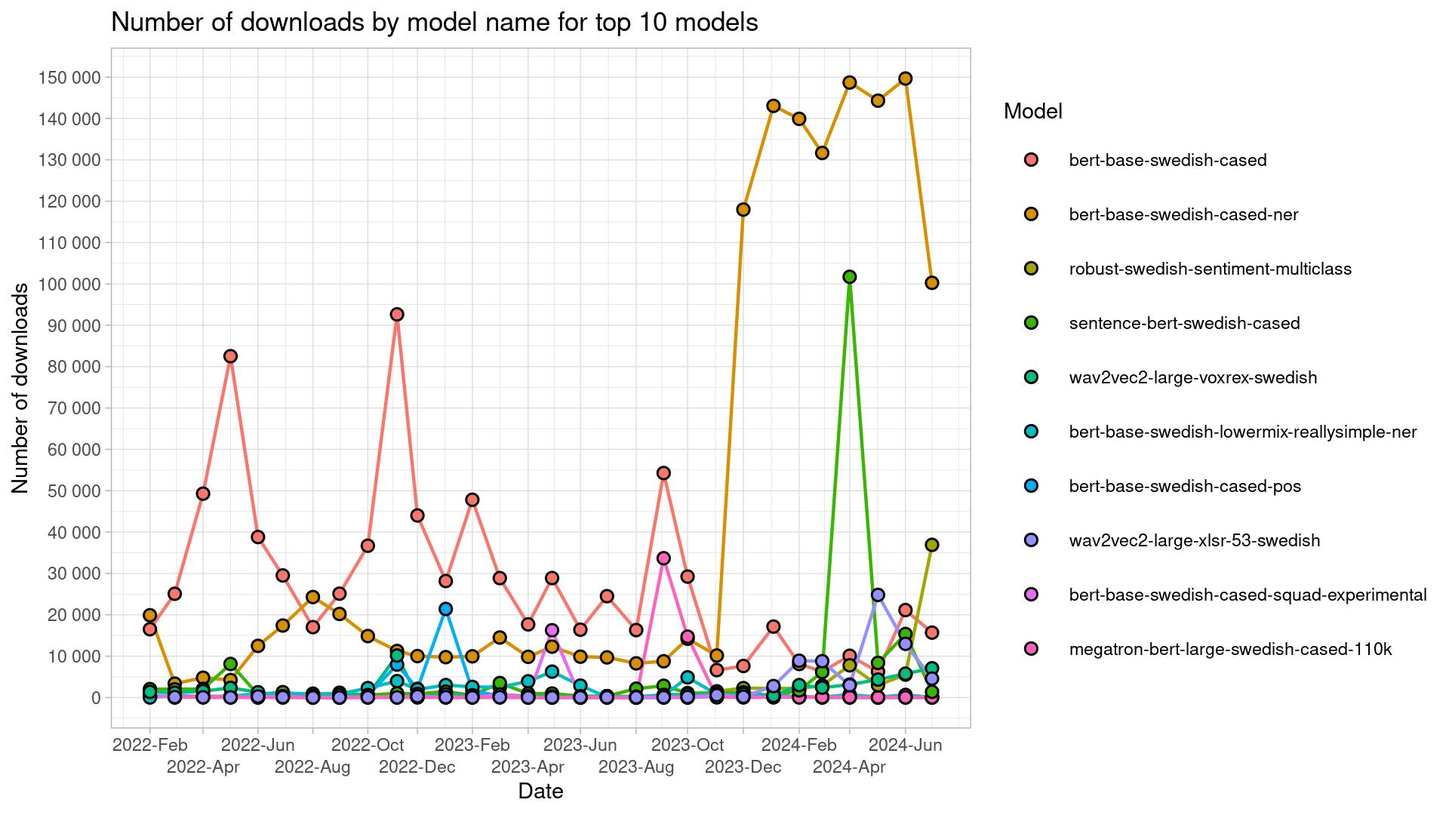
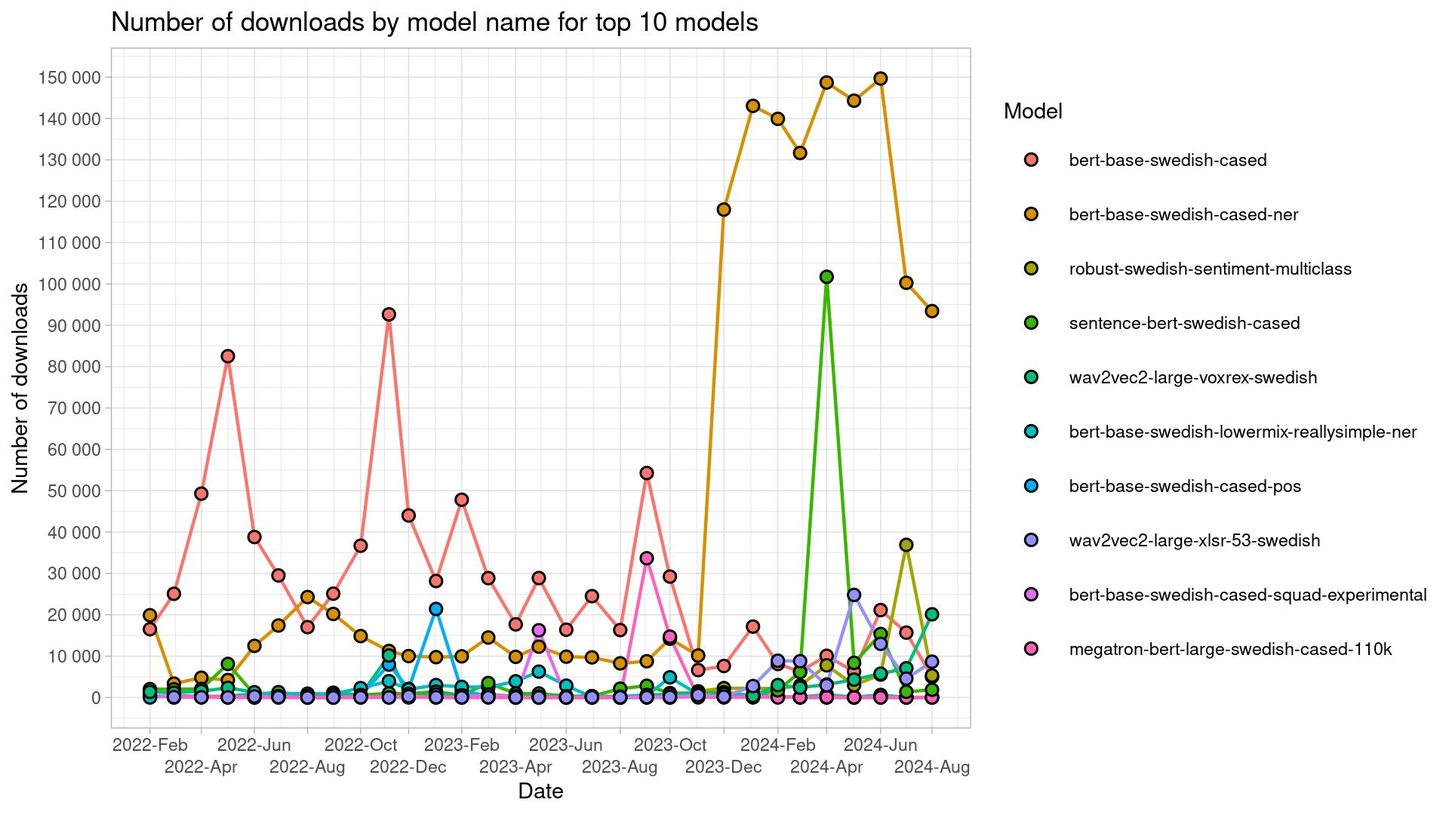
August 2024 update

Changed region(s): [[0.0938, 0.0917, 0.6562, 0.9472], [0.0938, 0.7028, 0.125, 0.7333]]

diff --git a/README.md b/README.md
@@ -12,61 +12,61 @@ Script is run monthly, and a monthly `csv`-file outputted to `/data` folder.
 
 ## Table of downloads
 
-|model_name                                           | 2022-02| 2022-03| 2022-04| 2022-05| 2022-06| 2022-07| 2022-08| 2022-09| 2022-10| 2022-11| 2022-12| 2023-01| 2023-02| 2023-03| 2023-04| 2023-05| 2023-06| 2023-07| 2023-08| 2023-09| 2023-10| 2023-11| 2023-12| 2024-01| 2024-02| 2024-03| 2024-04| 2024-05| 2024-06| 2024-07|
-|:----------------------------------------------------|-------:|-------:|-------:|-------:|-------:|-------:|-------:|-------:|-------:|-------:|-------:|-------:|-------:|-------:|-------:|-------:|-------:|-------:|-------:|-------:|-------:|-------:|-------:|-------:|-------:|-------:|-------:|-------:|-------:|-------:|
-|albert-base-swedish-cased-alpha                      |     126|     252|      61|      52|      52|      28|      31|      17|      30|      64|     229|      37|      32|      75|      13|      17|      24|      39|      14|      18|       4|      71|      75|      74|      20|      27|     100|     220|      31|      19|
-|asr-voxrex-bart-base                                 |      11|      10|      19|       5|       2|       1|       1|       3|       2|       3|       2|       4|       9|      15|       7|       2|       4|       7|       4|       3|       8|       2|       5|       1|       6|       8|       5|       8|       8|      50|
-|bart-base-swedish-cased                              |      74|      12|     116|     126|      32|      18|      41|      56|      81|       6|       9|      18|      41|      70|     110|      60|      50|      40|      23|       9|      63|      44|      42|      11|     129|      14|     119|      14|      56|      32|
-|bert-base-swedish-cased                              |   16509|   25080|   49286|   82528|   38802|   29511|   17012|   25106|   36702|   92636|   44016|   28164|   47819|   28864|   17684|   28878|   16390|   24502|   16303|   54271|   29238|    6625|    7620|   17149|    8106|    6290|   10094|    6253|   21139|   15689|
-|bert-base-swedish-cased-alpha                        |      22|      24|    1362|      34|       8|      73|       7|      14|      14|      14|      10|     160|     151|       6|       9|       5|       6|       9|       2|      12|       3|       4|       5|       3|       5|      11|      15|       2|       9|       8|
-|bert-base-swedish-cased-ner                          |   19891|    3353|    4783|    4221|   12487|   17406|   24290|   20200|   14852|   11251|   10014|    9759|    9957|   14508|    9834|   12293|    9868|    9701|    8258|    8767|   14214|   10149|  117977|  143050|  139912|  131659|  148695|  144309|  149658|  100264|
-|bert-base-swedish-cased-neriob                       |       8|      87|      34|      25|       4|      44|       2|       1|      62|      10|       5|      31|       5|       8|       6|       6|       9|      18|       2|       1|       0|      19|       8|       5|       5|      11|      15|       3|      22|       7|
-|bert-base-swedish-cased-new                          |      NA|       0|     377|    1069|     786|      10|     238|      69|     225|     168|     163|      46|      44|     352|     303|      33|      52|      69|      73|     211|      96|      84|      30|      34|       5|      53|      59|     279|      76|      27|
-|bert-base-swedish-cased-pos                          |     428|     179|     107|     104|     168|     310|       2|       2|     467|    7959|    2083|   21410|    1713|     300|      15|      28|      58|      64|       9|      75|      28|     312|     159|     166|     239|      33|      20|      12|      80|      32|
-|bert-base-swedish-cased-reallysimple-ner             |       6|      32|       9|       7|      11|      10|       3|       8|      10|      17|       4|      16|     159|     401|     211|     334|     327|     326|      74|     152|     341|     304|     274|       3|       7|      14|      14|       4|      12|       6|
-|bert-base-swedish-cased-squad-experimental           |     323|     136|      45|      23|      40|     182|      25|      27|     101|      10|      22|      62|      56|     643|     130|   16262|      29|      29|       4|      16|      10|     280|      64|      34|     275|      30|      44|       4|      13|      36|
-|bert-base-swedish-lowermix-reallysimple-ner          |       6|     453|     248|     312|     901|     991|     930|     871|    2274|    3958|    1963|    3010|    2567|    2485|    3919|    6258|    2875|     121|      53|     417|    4874|     769|     327|     713|      81|     111|     696|     104|     623|      31|
-|electra-base-swedish-cased-discriminator             |     317|     143|     149|    1404|       2|       3|       3|       3|       2|       5|       0|       7|       2|       0|       6|       7|       4|       8|       0|       1|       0|       4|       0|       1|       4|       5|      15|       2|       5|       4|
-|electra-base-swedish-cased-generator                 |       9|      15|      26|      31|       2|      19|       1|      18|       1|       9|       4|      10|       4|      14|      88|      78|     107|      72|       3|      15|      39|      12|       7|      11|       8|      52|      53|       6|      27|       2|
-|electra-small-swedish-cased-discriminator            |      12|       5|    1467|    3804|      10|       5|       2|       2|       2|      10|       8|      12|     153|       1|       9|       2|       6|       4|      18|       6|       0|       3|       0|       7|      11|      13|       9|       4|       9|       7|
-|electra-small-swedish-cased-generator                |      NA|       3|     138|      14|       4|      19|       2|       3|       4|       8|       6|      11|       4|       3|       6|      14|       4|       9|       0|       1|       0|     131|       5|       3|       5|       9|      13|       2|      10|       4|
-|emotional-classification                             |      NA|      NA|      NA|      NA|      NA|      NA|      NA|      NA|      NA|      NA|      NA|      NA|      NA|      NA|      NA|      NA|      NA|     155|       3|       1|       2|      27|       9|       0|       0|      13|      63|       1|       8|       2|
-|megatron-bert-base-swedish-cased-125k                |      NA|       0|     353|       0|       2|       8|       1|       3|     131|      55|     158|      27|      21|      19|       7|       6|      10|      10|       4|       2|       0|       4|      29|      22|       5|       3|       4|      67|       8|       2|
-|megatron-bert-base-swedish-cased-600k                |      NA|      10|     288|      87|      30|      16|      16|      17|     111|      12|      20|     194|      27|      49|      13|      15|     100|      22|       2|       2|      15|      12|      41|      21|       5|      67|       6|      71|      30|       6|
-|megatron-bert-large-swedish-cased-110k               |      NA|       0|     346|      77|       4|       4|       0|       1|       1|     171|     160|      15|       8|      23|       4|       2|       4|       3|       0|   33671|   14716|      38|      63|     106|      29|      70|      79|      43|      31|      24|
-|megatron-bert-large-swedish-cased-165-zero-shot      |      NA|      NA|      NA|      NA|      NA|      NA|      NA|      NA|      NA|      NA|       5|      55|      26|      63|      20|     621|      69|     135|      58|     170|      48|     243|     123|      40|     127|     147|      56|     123|     119|       7|
-|megatron-bert-large-swedish-cased-165k               |      NA|      NA|       9|      13|      40|      19|      53|       2|      18|     336|     327|      21|      34|      67|      43|      56|      36|      52|      13|      86|      37|      12|     343|     153|      24|      18|      24|      15|      15|       3|
-|megatron.bert-base.bpe-32k-no_pretok.25k-steps       |      NA|      NA|      NA|      NA|      NA|      NA|      NA|      NA|      NA|      NA|      NA|      NA|      NA|      NA|      NA|      NA|      NA|      NA|      NA|      NA|      NA|      NA|      NA|      NA|      NA|      NA|      NA|       3|       2|       4|
-|megatron.bert-base.bpe-64k-no_pretok.25k-steps       |      NA|      NA|      NA|      NA|      NA|      NA|      NA|      NA|      NA|      NA|      NA|      NA|      NA|      NA|      NA|      NA|      NA|      NA|      NA|      NA|      NA|      NA|      NA|      NA|      NA|      NA|      NA|       3|       3|       3|
-|megatron.bert-base.spe-bpe-32k-no_pretok.25k-steps   |      NA|      NA|      NA|      NA|      NA|      NA|      NA|      NA|      NA|      NA|      NA|      NA|      NA|      NA|      NA|      NA|      NA|      NA|      NA|      NA|      NA|      NA|      NA|      NA|      NA|      NA|      NA|       3|       3|       3|
-|megatron.bert-base.spe-bpe-32k-pretok.25k-steps      |      NA|      NA|      NA|      NA|      NA|      NA|      NA|      NA|      NA|      NA|      NA|      NA|      NA|      NA|      NA|      NA|      NA|      NA|      NA|      NA|      NA|      NA|      NA|      NA|      NA|      NA|      NA|       3|       3|       3|
-|megatron.bert-base.spe-bpe-64k-no_pretok.25k-steps   |      NA|      NA|      NA|      NA|      NA|      NA|      NA|      NA|      NA|      NA|      NA|      NA|      NA|      NA|      NA|      NA|      NA|      NA|      NA|      NA|      NA|      NA|      NA|      NA|      NA|      NA|      NA|       3|       3|       4|
-|megatron.bert-base.spe-bpe-64k-pretok.25k-steps      |      NA|      NA|      NA|      NA|      NA|      NA|      NA|      NA|      NA|      NA|      NA|      NA|      NA|      NA|      NA|      NA|      NA|      NA|      NA|      NA|      NA|      NA|      NA|      NA|      NA|      NA|      NA|       3|       3|       2|
-|megatron.bert-base.unigram-32k-no_pretok.25k-steps   |      NA|      NA|      NA|      NA|      NA|      NA|      NA|      NA|      NA|      NA|      NA|      NA|      NA|      NA|      NA|      NA|      NA|      NA|      NA|      NA|      NA|      NA|      NA|      NA|      NA|      NA|      NA|       3|       3|       3|
-|megatron.bert-base.unigram-32k-pretok.25k-steps      |      NA|      NA|      NA|      NA|      NA|      NA|      NA|      NA|      NA|      NA|      NA|      NA|      NA|      NA|      NA|      NA|      NA|      NA|      NA|      NA|      NA|      NA|      NA|      NA|      NA|      NA|      NA|       3|       3|       3|
-|megatron.bert-base.unigram-64k-no_pretok.25k-steps   |      NA|      NA|      NA|      NA|      NA|      NA|      NA|      NA|      NA|      NA|      NA|      NA|      NA|      NA|      NA|      NA|      NA|      NA|      NA|      NA|      NA|      NA|      NA|      NA|      NA|      NA|      NA|       3|       3|       3|
-|megatron.bert-base.unigram-64k-pretok.25k-steps      |      NA|      NA|      NA|      NA|      NA|      NA|      NA|      NA|      NA|      NA|      NA|      NA|      NA|      NA|      NA|      NA|      NA|      NA|      NA|      NA|      NA|      NA|      NA|      NA|      NA|      NA|      NA|       3|       4|       3|
-|megatron.bert-base.wordpiece-32k-no_pretok.25k-steps |      NA|      NA|      NA|      NA|      NA|      NA|      NA|      NA|      NA|      NA|      NA|      NA|      NA|      NA|      NA|      NA|      NA|      NA|      NA|      NA|      NA|      NA|      NA|      NA|      NA|      NA|      NA|       3|       3|       3|
-|megatron.bert-base.wordpiece-32k-pretok.25k-steps    |      NA|      NA|      NA|      NA|      NA|      NA|      NA|      NA|      NA|      NA|      NA|      NA|      NA|      NA|      NA|      NA|      NA|      NA|      NA|      NA|      NA|      NA|      NA|      NA|      NA|      NA|      NA|       9|       3|       3|
-|megatron.bert-base.wordpiece-64k-no_pretok.25k-steps |      NA|      NA|      NA|      NA|      NA|      NA|      NA|      NA|      NA|      NA|      NA|      NA|      NA|      NA|      NA|      NA|      NA|      NA|      NA|      NA|      NA|      NA|      NA|      NA|      NA|      NA|      NA|       3|       3|       3|
-|megatron.bert-base.wordpiece-64k-pretok.25k-steps    |      NA|      NA|      NA|      NA|      NA|      NA|      NA|      NA|      NA|      NA|      NA|      NA|      NA|      NA|      NA|      NA|      NA|      NA|      NA|      NA|      NA|      NA|      NA|      NA|      NA|      NA|      NA|       3|       3|       2|
-|megatron.bert-large.bpe-64k-no_pretok.25k-steps      |      NA|      NA|      NA|      NA|      NA|      NA|      NA|      NA|      NA|      NA|      NA|      NA|      NA|      NA|      NA|      NA|      NA|      NA|      NA|      NA|      NA|      NA|      NA|      NA|      NA|      NA|      NA|       3|       3|       3|
-|megatron.bert-large.spe-bpe-32k-pretok.25k-steps     |      NA|      NA|      NA|      NA|      NA|      NA|      NA|      NA|      NA|      NA|      NA|      NA|      NA|      NA|      NA|      NA|      NA|      NA|      NA|      NA|      NA|      NA|      NA|      NA|      NA|      NA|      NA|       3|       3|       3|
-|megatron.bert-large.unigram-32k-pretok.25k-steps     |      NA|      NA|      NA|      NA|      NA|      NA|      NA|      NA|      NA|      NA|      NA|      NA|      NA|      NA|      NA|      NA|      NA|      NA|      NA|      NA|      NA|      NA|      NA|      NA|      NA|      NA|      NA|       3|       3|       2|
-|megatron.bert-large.unigram-64k-pretok.25k-steps     |      NA|      NA|      NA|      NA|      NA|      NA|      NA|      NA|      NA|      NA|      NA|      NA|      NA|      NA|      NA|      NA|      NA|      NA|      NA|      NA|      NA|      NA|      NA|      NA|      NA|      NA|      NA|       3|       3|       3|
-|megatron.bert-large.unigram-64k-pretok.500k-steps    |      NA|      NA|      NA|      NA|      NA|      NA|      NA|      NA|      NA|      NA|      NA|      NA|      NA|      NA|      NA|      NA|      NA|      NA|      NA|      NA|      NA|      NA|      NA|      NA|      NA|     310|      11|       1|       1|       2|
-|megatron.bert-large.wordpiece-32k-pretok.25k-steps   |      NA|      NA|      NA|      NA|      NA|      NA|      NA|      NA|      NA|      NA|      NA|      NA|      NA|      NA|      NA|      NA|      NA|      NA|      NA|      NA|      NA|      NA|      NA|      NA|      NA|      NA|      NA|       3|       3|       3|
-|megatron.bert-large.wordpiece-64k-pretok.25k-steps   |      NA|      NA|      NA|      NA|      NA|      NA|      NA|      NA|      NA|      NA|      NA|      NA|      NA|      NA|      NA|      NA|      NA|      NA|      NA|      NA|      NA|      NA|      NA|      NA|      NA|      NA|      NA|       9|       4|       3|
-|piper-tts-nst-swedish                                |      NA|      NA|      NA|      NA|      NA|      NA|      NA|      NA|      NA|      NA|      NA|      NA|      NA|      NA|      NA|       1|       8|       3|       0|       0|       0|       1|       0|       0|       0|       3|       7|      11|       3|       1|
-|roberta-base-swedish-cased                           |       7|       7|     471|       8|      78|       5|      67|       2|       0|       5|       5|      37|     150|       3|       6|     204|      10|       9|       1|       2|       2|       2|       3|       3|      30|      15|       9|       3|      10|       3|
-|robust-swedish-sentiment-multiclass                  |      NA|      NA|      NA|      NA|      NA|      NA|      NA|      NA|      NA|      NA|      NA|      NA|      NA|      NA|      NA|      NA|      12|     296|       8|      58|     119|    1505|    2263|    2206|    2178|    2895|    7783|    2968|    5544|   36910|
-|sentence-bert-swedish-cased                          |    2033|    1988|    2079|    8110|     721|    1299|     304|    1157|     597|    1008|     887|    1441|     546|    3499|     955|     970|     327|     328|    2135|    2841|    1071|    1067|    1258|     383|    1733|    6143|  101722|    8376|   15360|    1376|
-|swedish-spacy-pipeline                               |      65|      22|       5|       2|       5|       9|       1|       2|       0|       1|       3|       4|       6|      90|       3|       1|       0|       1|       3|       9|       5|       5|       5|       3|      56|       5|       4|       2|       2|       8|
-|wav2vec2-base-voxpopuli-sv-swedish                   |      NA|      21|      19|       7|       1|      NA|       1|       5|      99|       6|       2|      13|      57|      12|      56|       4|      26|       9|       0|       1|       7|       4|       2|     113|       5|       6|      12|       4|       9|       6|
-|wav2vec2-large-voxpopuli-sv-swedish                  |      58|      32|      73|      57|      24|       5|       5|      11|      59|      15|       7|      23|       9|      10|      13|      10|       7|      14|       4|       1|       5|      26|       2|       3|      12|     117|      14|      13|       2|      19|
-|wav2vec2-large-voxrex                                |     780|     609|     996|      57|     102|      55|      13|      34|      74|       4|       0|      56|      17|      11|       8|      17|       4|      15|       2|       1|      13|       6|       3|       1|      12|      10|      10|      20|      18|       8|
-|wav2vec2-large-voxrex-swedish                        |    1356|    1151|    1534|    2331|    1277|     334|     361|     611|     531|   10157|     146|     770|     411|     732|     290|     225|      65|     330|     217|     624|     752|     769|     829|     392|    3000|    2389|    3129|    4330|    5762|    7066|
-|wav2vec2-large-xlsr-53-swedish                       |      NA|     112|      55|      32|     259|      91|      19|       9|      61|      26|     307|      71|      32|      76|      26|      31|      45|      65|      50|      77|     126|     586|     188|    2766|    8897|    8785|    2962|   24811|   12976|    4572|
-|whisper-large-rixvox                                 |      NA|      NA|      NA|      NA|      NA|      NA|      NA|      NA|      NA|      NA|      NA|      NA|      NA|     113|      56|       8|       9|      12|       9|       6|       0|      16|       0|       2|      19|      38|      18|      12|      11|      31|
-|whisper-small-rixvox                                 |      NA|      NA|      NA|      NA|      NA|      NA|      NA|      NA|      NA|      NA|      NA|      NA|      NA|       3|       1|       6|       2|       7|       0|       0|       0|       1|       0|       0|       0|      13|       2|       1|       7|       1|
-|whisper-tiny-rixvox                                  |      NA|      NA|      NA|      NA|      NA|      NA|      NA|      NA|      NA|      NA|      NA|      NA|      NA|       9|       1|       5|       4|       7|       3|       0|       0|       1|       0|       0|       2|      12|       6|       1|       7|       1|
+|model_name                                           | 2022-02| 2022-03| 2022-04| 2022-05| 2022-06| 2022-07| 2022-08| 2022-09| 2022-10| 2022-11| 2022-12| 2023-01| 2023-02| 2023-03| 2023-04| 2023-05| 2023-06| 2023-07| 2023-08| 2023-09| 2023-10| 2023-11| 2023-12| 2024-01| 2024-02| 2024-03| 2024-04| 2024-05| 2024-06| 2024-07| 2024-08|
+|:----------------------------------------------------|-------:|-------:|-------:|-------:|-------:|-------:|-------:|-------:|-------:|-------:|-------:|-------:|-------:|-------:|-------:|-------:|-------:|-------:|-------:|-------:|-------:|-------:|-------:|-------:|-------:|-------:|-------:|-------:|-------:|-------:|-------:|
+|albert-base-swedish-cased-alpha                      |     126|     252|      61|      52|      52|      28|      31|      17|      30|      64|     229|      37|      32|      75|      13|      17|      24|      39|      14|      18|       4|      71|      75|      74|      20|      27|     100|     220|      31|      19|      19|
+|asr-voxrex-bart-base                                 |      11|      10|      19|       5|       2|       1|       1|       3|       2|       3|       2|       4|       9|      15|       7|       2|       4|       7|       4|       3|       8|       2|       5|       1|       6|       8|       5|       8|       8|      50|       6|
+|bart-base-swedish-cased                              |      74|      12|     116|     126|      32|      18|      41|      56|      81|       6|       9|      18|      41|      70|     110|      60|      50|      40|      23|       9|      63|      44|      42|      11|     129|      14|     119|      14|      56|      32|     288|
+|bert-base-swedish-cased                              |   16509|   25080|   49286|   82528|   38802|   29511|   17012|   25106|   36702|   92636|   44016|   28164|   47819|   28864|   17684|   28878|   16390|   24502|   16303|   54271|   29238|    6625|    7620|   17149|    8106|    6290|   10094|    6253|   21139|   15689|    4996|
+|bert-base-swedish-cased-alpha                        |      22|      24|    1362|      34|       8|      73|       7|      14|      14|      14|      10|     160|     151|       6|       9|       5|       6|       9|       2|      12|       3|       4|       5|       3|       5|      11|      15|       2|       9|       8|       7|
+|bert-base-swedish-cased-ner                          |   19891|    3353|    4783|    4221|   12487|   17406|   24290|   20200|   14852|   11251|   10014|    9759|    9957|   14508|    9834|   12293|    9868|    9701|    8258|    8767|   14214|   10149|  117977|  143050|  139912|  131659|  148695|  144309|  149658|  100264|   93427|
+|bert-base-swedish-cased-neriob                       |       8|      87|      34|      25|       4|      44|       2|       1|      62|      10|       5|      31|       5|       8|       6|       6|       9|      18|       2|       1|       0|      19|       8|       5|       5|      11|      15|       3|      22|       7|      10|
+|bert-base-swedish-cased-new                          |      NA|       0|     377|    1069|     786|      10|     238|      69|     225|     168|     163|      46|      44|     352|     303|      33|      52|      69|      73|     211|      96|      84|      30|      34|       5|      53|      59|     279|      76|      27|       8|
+|bert-base-swedish-cased-pos                          |     428|     179|     107|     104|     168|     310|       2|       2|     467|    7959|    2083|   21410|    1713|     300|      15|      28|      58|      64|       9|      75|      28|     312|     159|     166|     239|      33|      20|      12|      80|      32|      15|
+|bert-base-swedish-cased-reallysimple-ner             |       6|      32|       9|       7|      11|      10|       3|       8|      10|      17|       4|      16|     159|     401|     211|     334|     327|     326|      74|     152|     341|     304|     274|       3|       7|      14|      14|       4|      12|       6|      11|
+|bert-base-swedish-cased-squad-experimental           |     323|     136|      45|      23|      40|     182|      25|      27|     101|      10|      22|      62|      56|     643|     130|   16262|      29|      29|       4|      16|      10|     280|      64|      34|     275|      30|      44|       4|      13|      36|      47|
+|bert-base-swedish-lowermix-reallysimple-ner          |       6|     453|     248|     312|     901|     991|     930|     871|    2274|    3958|    1963|    3010|    2567|    2485|    3919|    6258|    2875|     121|      53|     417|    4874|     769|     327|     713|      81|     111|     696|     104|     623|      31|      33|
+|electra-base-swedish-cased-discriminator             |     317|     143|     149|    1404|       2|       3|       3|       3|       2|       5|       0|       7|       2|       0|       6|       7|       4|       8|       0|       1|       0|       4|       0|       1|       4|       5|      15|       2|       5|       4|       4|
+|electra-base-swedish-cased-generator                 |       9|      15|      26|      31|       2|      19|       1|      18|       1|       9|       4|      10|       4|      14|      88|      78|     107|      72|       3|      15|      39|      12|       7|      11|       8|      52|      53|       6|      27|       2|       5|
+|electra-small-swedish-cased-discriminator            |      12|       5|    1467|    3804|      10|       5|       2|       2|       2|      10|       8|      12|     153|       1|       9|       2|       6|       4|      18|       6|       0|       3|       0|       7|      11|      13|       9|       4|       9|       7|      14|
+|electra-small-swedish-cased-generator                |      NA|       3|     138|      14|       4|      19|       2|       3|       4|       8|       6|      11|       4|       3|       6|      14|       4|       9|       0|       1|       0|     131|       5|       3|       5|       9|      13|       2|      10|       4|       9|
+|emotional-classification                             |      NA|      NA|      NA|      NA|      NA|      NA|      NA|      NA|      NA|      NA|      NA|      NA|      NA|      NA|      NA|      NA|      NA|     155|       3|       1|       2|      27|       9|       0|       0|      13|      63|       1|       8|       2|       8|
+|megatron-bert-base-swedish-cased-125k                |      NA|       0|     353|       0|       2|       8|       1|       3|     131|      55|     158|      27|      21|      19|       7|       6|      10|      10|       4|       2|       0|       4|      29|      22|       5|       3|       4|      67|       8|       2|       6|
+|megatron-bert-base-swedish-cased-600k                |      NA|      10|     288|      87|      30|      16|      16|      17|     111|      12|      20|     194|      27|      49|      13|      15|     100|      22|       2|       2|      15|      12|      41|      21|       5|      67|       6|      71|      30|       6|      13|
+|megatron-bert-large-swedish-cased-110k               |      NA|       0|     346|      77|       4|       4|       0|       1|       1|     171|     160|      15|       8|      23|       4|       2|       4|       3|       0|   33671|   14716|      38|      63|     106|      29|      70|      79|      43|      31|      24|      23|
+|megatron-bert-large-swedish-cased-165-zero-shot      |      NA|      NA|      NA|      NA|      NA|      NA|      NA|      NA|      NA|      NA|       5|      55|      26|      63|      20|     621|      69|     135|      58|     170|      48|     243|     123|      40|     127|     147|      56|     123|     119|       7|      27|
+|megatron-bert-large-swedish-cased-165k               |      NA|      NA|       9|      13|      40|      19|      53|       2|      18|     336|     327|      21|      34|      67|      43|      56|      36|      52|      13|      86|      37|      12|     343|     153|      24|      18|      24|      15|      15|       3|       5|
+|megatron.bert-base.bpe-32k-no_pretok.25k-steps       |      NA|      NA|      NA|      NA|      NA|      NA|      NA|      NA|      NA|      NA|      NA|      NA|      NA|      NA|      NA|      NA|      NA|      NA|      NA|      NA|      NA|      NA|      NA|      NA|      NA|      NA|      NA|       3|       2|       4|       4|
+|megatron.bert-base.bpe-64k-no_pretok.25k-steps       |      NA|      NA|      NA|      NA|      NA|      NA|      NA|      NA|      NA|      NA|      NA|      NA|      NA|      NA|      NA|      NA|      NA|      NA|      NA|      NA|      NA|      NA|      NA|      NA|      NA|      NA|      NA|       3|       3|       3|       5|
+|megatron.bert-base.spe-bpe-32k-no_pretok.25k-steps   |      NA|      NA|      NA|      NA|      NA|      NA|      NA|      NA|      NA|      NA|      NA|      NA|      NA|      NA|      NA|      NA|      NA|      NA|      NA|      NA|      NA|      NA|      NA|      NA|      NA|      NA|      NA|       3|       3|       3|       4|
+|megatron.bert-base.spe-bpe-32k-pretok.25k-steps      |      NA|      NA|      NA|      NA|      NA|      NA|      NA|      NA|      NA|      NA|      NA|      NA|      NA|      NA|      NA|      NA|      NA|      NA|      NA|      NA|      NA|      NA|      NA|      NA|      NA|      NA|      NA|       3|       3|       3|       4|
+|megatron.bert-base.spe-bpe-64k-no_pretok.25k-steps   |      NA|      NA|      NA|      NA|      NA|      NA|      NA|      NA|      NA|      NA|      NA|      NA|      NA|      NA|      NA|      NA|      NA|      NA|      NA|      NA|      NA|      NA|      NA|      NA|      NA|      NA|      NA|       3|       3|       4|       4|
+|megatron.bert-base.spe-bpe-64k-pretok.25k-steps      |      NA|      NA|      NA|      NA|      NA|      NA|      NA|      NA|      NA|      NA|      NA|      NA|      NA|      NA|      NA|      NA|      NA|      NA|      NA|      NA|      NA|      NA|      NA|      NA|      NA|      NA|      NA|       3|       3|       2|       4|
+|megatron.bert-base.unigram-32k-no_pretok.25k-steps   |      NA|      NA|      NA|      NA|      NA|      NA|      NA|      NA|      NA|      NA|      NA|      NA|      NA|      NA|      NA|      NA|      NA|      NA|      NA|      NA|      NA|      NA|      NA|      NA|      NA|      NA|      NA|       3|       3|       3|       4|
+|megatron.bert-base.unigram-32k-pretok.25k-steps      |      NA|      NA|      NA|      NA|      NA|      NA|      NA|      NA|      NA|      NA|      NA|      NA|      NA|      NA|      NA|      NA|      NA|      NA|      NA|      NA|      NA|      NA|      NA|      NA|      NA|      NA|      NA|       3|       3|       3|       4|
+|megatron.bert-base.unigram-64k-no_pretok.25k-steps   |      NA|      NA|      NA|      NA|      NA|      NA|      NA|      NA|      NA|      NA|      NA|      NA|      NA|      NA|      NA|      NA|      NA|      NA|      NA|      NA|      NA|      NA|      NA|      NA|      NA|      NA|      NA|       3|       3|       3|       5|
+|megatron.bert-base.unigram-64k-pretok.25k-steps      |      NA|      NA|      NA|      NA|      NA|      NA|      NA|      NA|      NA|      NA|      NA|      NA|      NA|      NA|      NA|      NA|      NA|      NA|      NA|      NA|      NA|      NA|      NA|      NA|      NA|      NA|      NA|       3|       4|       3|       4|
+|megatron.bert-base.wordpiece-32k-no_pretok.25k-steps |      NA|      NA|      NA|      NA|      NA|      NA|      NA|      NA|      NA|      NA|      NA|      NA|      NA|      NA|      NA|      NA|      NA|      NA|      NA|      NA|      NA|      NA|      NA|      NA|      NA|      NA|      NA|       3|       3|       3|       4|
+|megatron.bert-base.wordpiece-32k-pretok.25k-steps    |      NA|      NA|      NA|      NA|      NA|      NA|      NA|      NA|      NA|      NA|      NA|      NA|      NA|      NA|      NA|      NA|      NA|      NA|      NA|      NA|      NA|      NA|      NA|      NA|      NA|      NA|      NA|       9|       3|       3|       5|
+|megatron.bert-base.wordpiece-64k-no_pretok.25k-steps |      NA|      NA|      NA|      NA|      NA|      NA|      NA|      NA|      NA|      NA|      NA|      NA|      NA|      NA|      NA|      NA|      NA|      NA|      NA|      NA|      NA|      NA|      NA|      NA|      NA|      NA|      NA|       3|       3|       3|       5|
+|megatron.bert-base.wordpiece-64k-pretok.25k-steps    |      NA|      NA|      NA|      NA|      NA|      NA|      NA|      NA|      NA|      NA|      NA|      NA|      NA|      NA|      NA|      NA|      NA|      NA|      NA|      NA|      NA|      NA|      NA|      NA|      NA|      NA|      NA|       3|       3|       2|       4|
+|megatron.bert-large.bpe-64k-no_pretok.25k-steps      |      NA|      NA|      NA|      NA|      NA|      NA|      NA|      NA|      NA|      NA|      NA|      NA|      NA|      NA|      NA|      NA|      NA|      NA|      NA|      NA|      NA|      NA|      NA|      NA|      NA|      NA|      NA|       3|       3|       3|       4|
+|megatron.bert-large.spe-bpe-32k-pretok.25k-steps     |      NA|      NA|      NA|      NA|      NA|      NA|      NA|      NA|      NA|      NA|      NA|      NA|      NA|      NA|      NA|      NA|      NA|      NA|      NA|      NA|      NA|      NA|      NA|      NA|      NA|      NA|      NA|       3|       3|       3|       4|
+|megatron.bert-large.unigram-32k-pretok.25k-steps     |      NA|      NA|      NA|      NA|      NA|      NA|      NA|      NA|      NA|      NA|      NA|      NA|      NA|      NA|      NA|      NA|      NA|      NA|      NA|      NA|      NA|      NA|      NA|      NA|      NA|      NA|      NA|       3|       3|       2|       4|
+|megatron.bert-large.unigram-64k-pretok.25k-steps     |      NA|      NA|      NA|      NA|      NA|      NA|      NA|      NA|      NA|      NA|      NA|      NA|      NA|      NA|      NA|      NA|      NA|      NA|      NA|      NA|      NA|      NA|      NA|      NA|      NA|      NA|      NA|       3|       3|       3|       5|
+|megatron.bert-large.unigram-64k-pretok.500k-steps    |      NA|      NA|      NA|      NA|      NA|      NA|      NA|      NA|      NA|      NA|      NA|      NA|      NA|      NA|      NA|      NA|      NA|      NA|      NA|      NA|      NA|      NA|      NA|      NA|      NA|     310|      11|       1|       1|       2|       4|
+|megatron.bert-large.wordpiece-32k-pretok.25k-steps   |      NA|      NA|      NA|      NA|      NA|      NA|      NA|      NA|      NA|      NA|      NA|      NA|      NA|      NA|      NA|      NA|      NA|      NA|      NA|      NA|      NA|      NA|      NA|      NA|      NA|      NA|      NA|       3|       3|       3|       5|
+|megatron.bert-large.wordpiece-64k-pretok.25k-steps   |      NA|      NA|      NA|      NA|      NA|      NA|      NA|      NA|      NA|      NA|      NA|      NA|      NA|      NA|      NA|      NA|      NA|      NA|      NA|      NA|      NA|      NA|      NA|      NA|      NA|      NA|      NA|       9|       4|       3|       5|
+|piper-tts-nst-swedish                                |      NA|      NA|      NA|      NA|      NA|      NA|      NA|      NA|      NA|      NA|      NA|      NA|      NA|      NA|      NA|       1|       8|       3|       0|       0|       0|       1|       0|       0|       0|       3|       7|      11|       3|       1|       6|
+|roberta-base-swedish-cased                           |       7|       7|     471|       8|      78|       5|      67|       2|       0|       5|       5|      37|     150|       3|       6|     204|      10|       9|       1|       2|       2|       2|       3|       3|      30|      15|       9|       3|      10|       3|       8|
+|robust-swedish-sentiment-multiclass                  |      NA|      NA|      NA|      NA|      NA|      NA|      NA|      NA|      NA|      NA|      NA|      NA|      NA|      NA|      NA|      NA|      12|     296|       8|      58|     119|    1505|    2263|    2206|    2178|    2895|    7783|    2968|    5544|   36910|    5320|
+|sentence-bert-swedish-cased                          |    2033|    1988|    2079|    8110|     721|    1299|     304|    1157|     597|    1008|     887|    1441|     546|    3499|     955|     970|     327|     328|    2135|    2841|    1071|    1067|    1258|     383|    1733|    6143|  101722|    8376|   15360|    1376|    1874|
+|swedish-spacy-pipeline                               |      65|      22|       5|       2|       5|       9|       1|       2|       0|       1|       3|       4|       6|      90|       3|       1|       0|       1|       3|       9|       5|       5|       5|       3|      56|       5|       4|       2|       2|       8|       9|
+|wav2vec2-base-voxpopuli-sv-swedish                   |      NA|      21|      19|       7|       1|      NA|       1|       5|      99|       6|       2|      13|      57|      12|      56|       4|      26|       9|       0|       1|       7|       4|       2|     113|       5|       6|      12|       4|       9|       6|      14|
+|wav2vec2-large-voxpopuli-sv-swedish                  |      58|      32|      73|      57|      24|       5|       5|      11|      59|      15|       7|      23|       9|      10|      13|      10|       7|      14|       4|       1|       5|      26|       2|       3|      12|     117|      14|      13|       2|      19|      12|
+|wav2vec2-large-voxrex                                |     780|     609|     996|      57|     102|      55|      13|      34|      74|       4|       0|      56|      17|      11|       8|      17|       4|      15|       2|       1|      13|       6|       3|       1|      12|      10|      10|      20|      18|       8|      13|
+|wav2vec2-large-voxrex-swedish                        |    1356|    1151|    1534|    2331|    1277|     334|     361|     611|     531|   10157|     146|     770|     411|     732|     290|     225|      65|     330|     217|     624|     752|     769|     829|     392|    3000|    2389|    3129|    4330|    5762|    7066|   20122|
+|wav2vec2-large-xlsr-53-swedish                       |      NA|     112|      55|      32|     259|      91|      19|       9|      61|      26|     307|      71|      32|      76|      26|      31|      45|      65|      50|      77|     126|     586|     188|    2766|    8897|    8785|    2962|   24811|   12976|    4572|    8654|
+|whisper-large-rixvox                                 |      NA|      NA|      NA|      NA|      NA|      NA|      NA|      NA|      NA|      NA|      NA|      NA|      NA|     113|      56|       8|       9|      12|       9|       6|       0|      16|       0|       2|      19|      38|      18|      12|      11|      31|       8|
+|whisper-small-rixvox                                 |      NA|      NA|      NA|      NA|      NA|      NA|      NA|      NA|      NA|      NA|      NA|      NA|      NA|       3|       1|       6|       2|       7|       0|       0|       0|       1|       0|       0|       0|      13|       2|       1|       7|       1|       6|
+|whisper-tiny-rixvox                                  |      NA|      NA|      NA|      NA|      NA|      NA|      NA|      NA|      NA|      NA|      NA|      NA|      NA|       9|       1|       5|       4|       7|       3|       0|       0|       1|       0|       0|       2|      12|       6|       1|       7|       1|       5|
